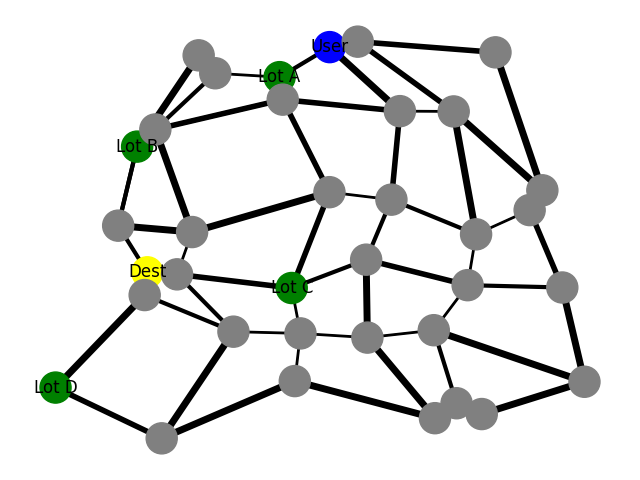
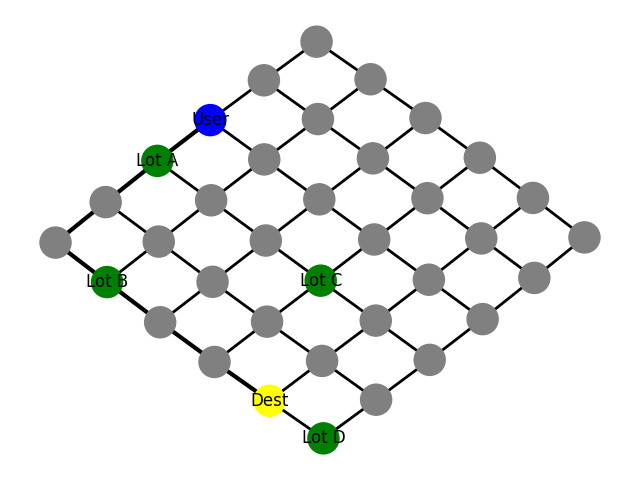
Wed, Apr 30, 2025, 5:42 PM -04:00

Changed region(s): [[0.0625, 0.0312, 0.9375, 0.9688], [0.0312, 0.75, 0.1875, 0.875]]

diff --git a/main.py b/main.py
@@ -1,4 +1,4 @@
-from graph_builder import build_city_graph
+from graph_builder import build_balanced_city_graph
 from parking_data import parking_lots
 from parking_logic import find_best_parking
 from visualize import show_city_map
